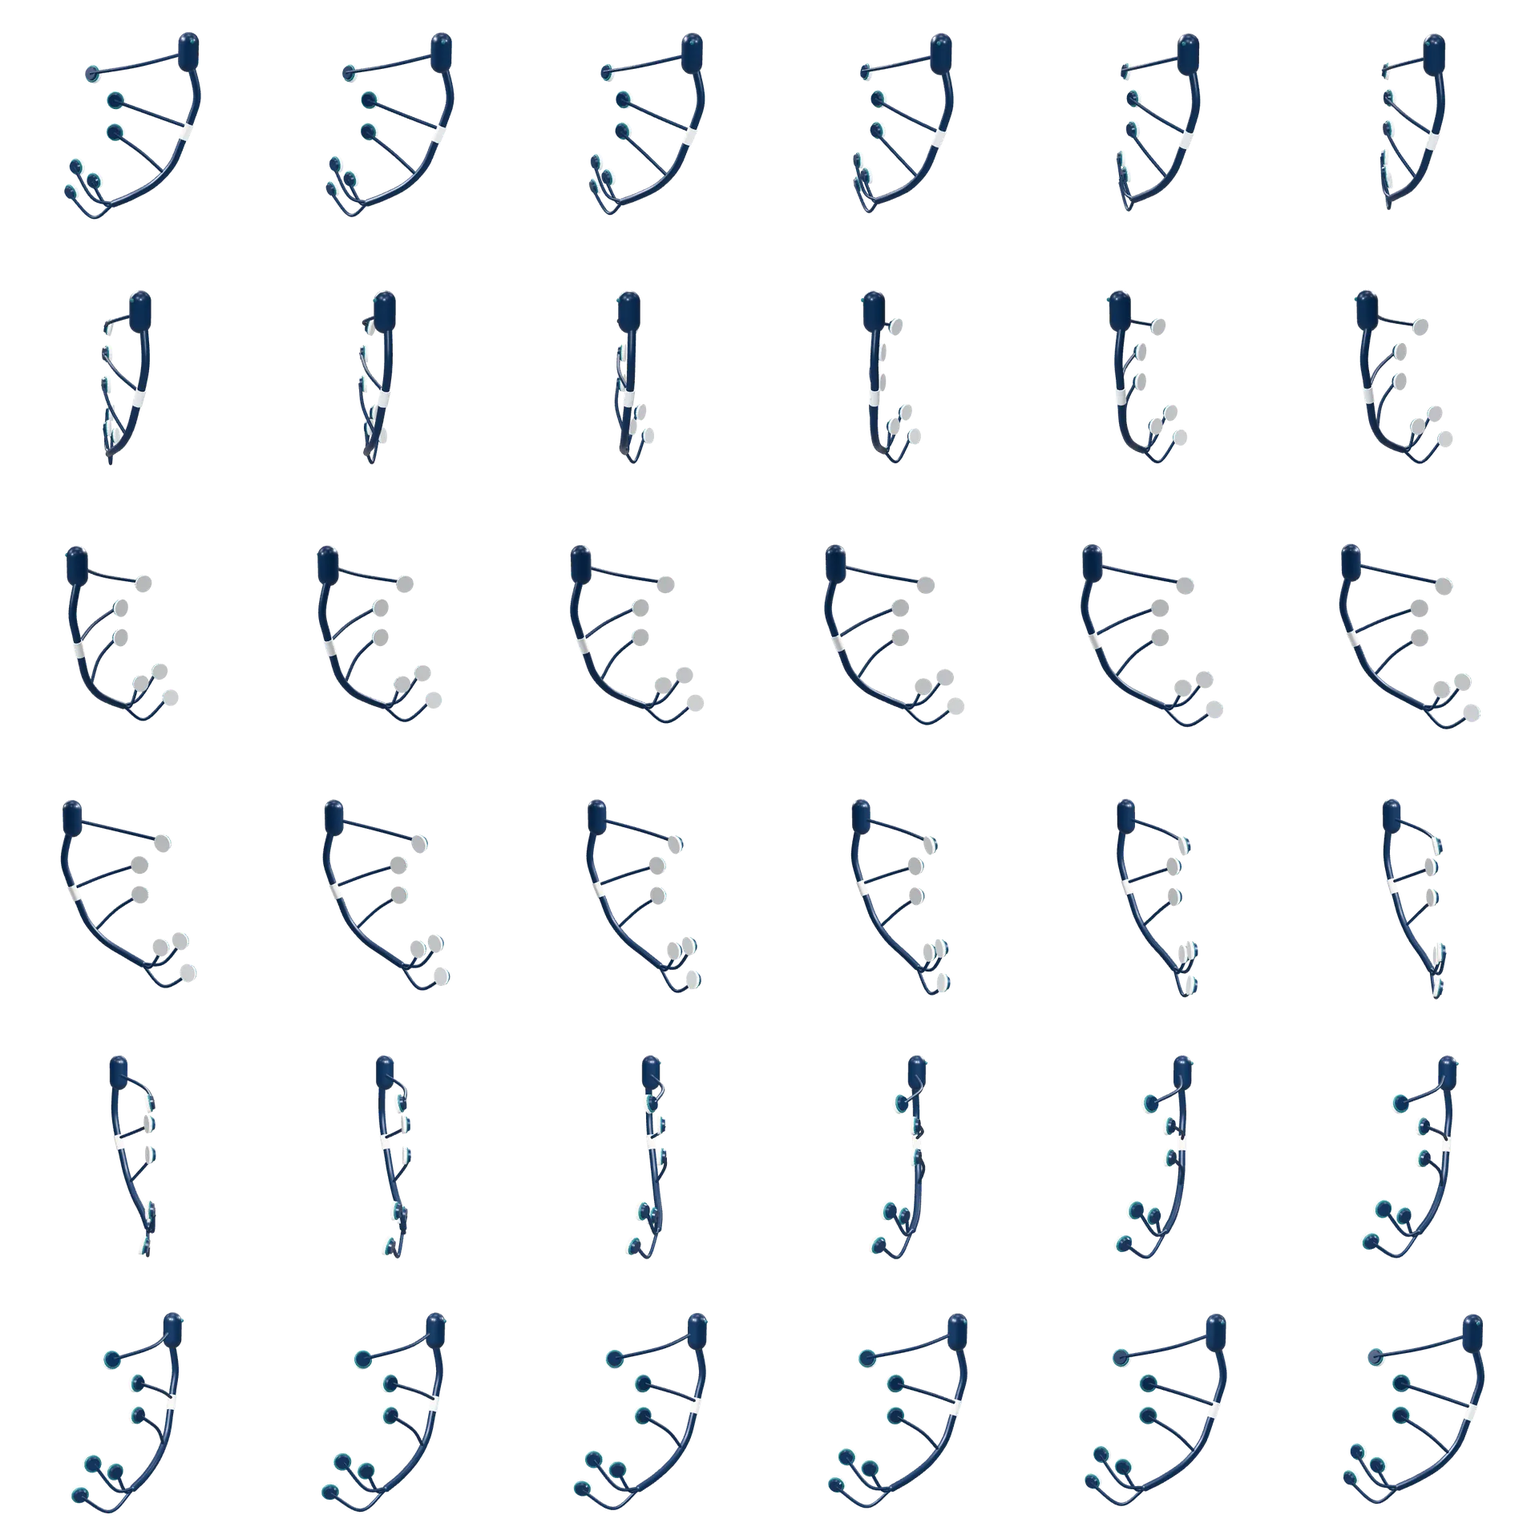
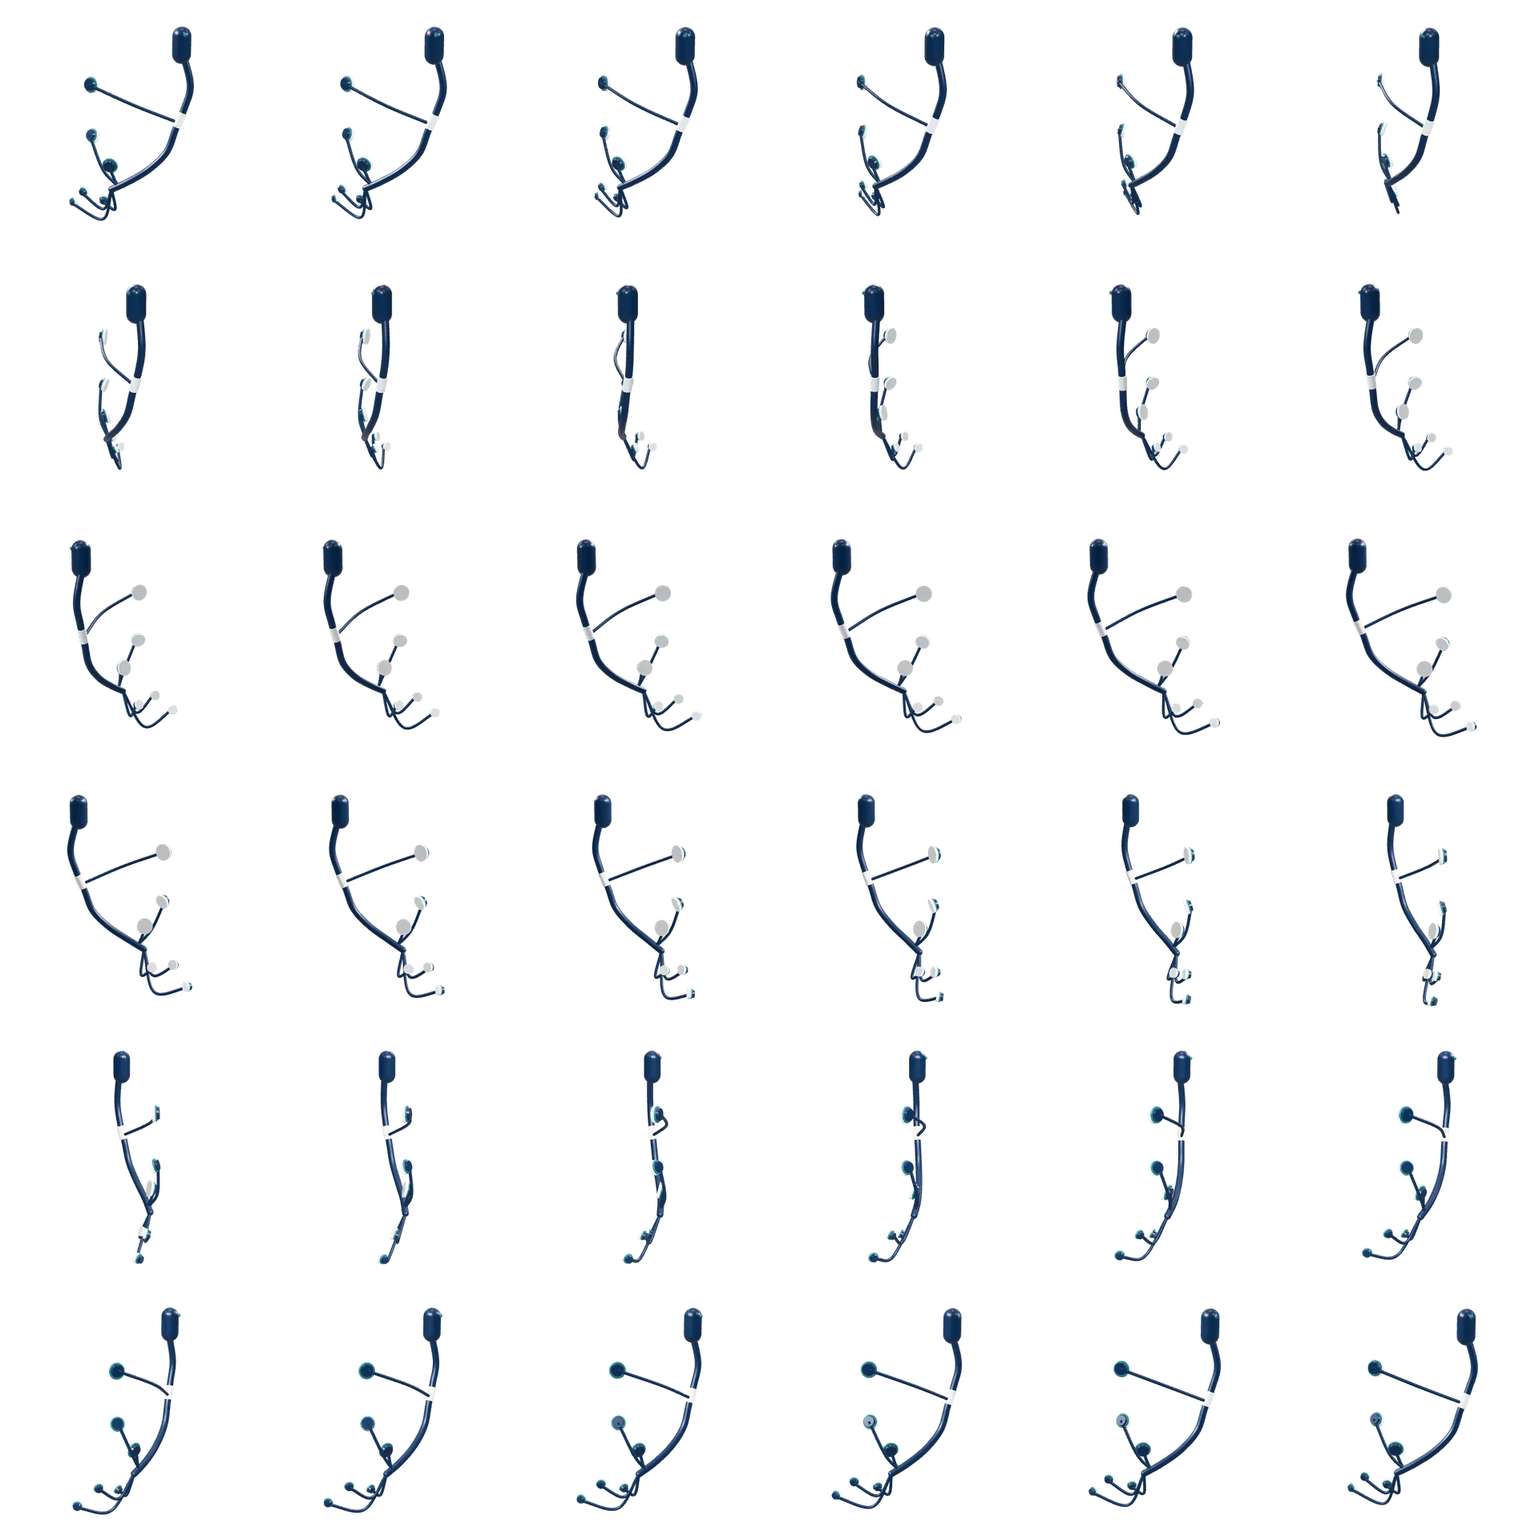
Electrodes placed from facial landmarks (motor-point rules of the original model), sized per site
Claude-Session: https://claude.ai/code/session_01AVcAcR4VspJ6PmTS8nQSgM

diff --git a/team.html b/team.html
@@ -6,10 +6,10 @@
 <meta name="viewport" content="width=device-width,initial-scale=1">
 <meta name="description" content="An open-face electrical-stimulation mask for facial palsy rehabilitation — graduation project, Faculty of Physical Therapy, Kafrelsheikh University.">
 <meta name="theme-color" content="#FFFFFF">
-<link rel="icon" type="image/png" sizes="64x64" href="assets/favicon.png?v=6af5e4dd">
-<link rel="apple-touch-icon" href="assets/apple-touch-icon.png?v=6af5e4dd">
+<link rel="icon" type="image/png" sizes="64x64" href="assets/favicon.png?v=6af5e5fa">
+<link rel="apple-touch-icon" href="assets/apple-touch-icon.png?v=6af5e5fa">
 <link rel="preload" href="assets/fonts/inter-latin-400-normal.woff2" as="font" type="font/woff2" crossorigin>
-<link rel="stylesheet" href="assets/site.css?v=6af5e4dd">
+<link rel="stylesheet" href="assets/site.css?v=6af5e5fa">
 
 </head>
 <body>
@@ -41,7 +41,7 @@
 </div></section>
 </main>
 <script type="module">
-import { initSite, $ } from './assets/site.js?v=6af5e4dd';
+import { initSite, $ } from './assets/site.js?v=6af5e5fa';
 // Team members: replace the placeholders with {en, ar, role_en, role_ar}
 const MEMBERS = [{"ar": "احمد مفيد ابراهيم احمد", "en": "Ahmed Mofid Ibrahim Ahmed", "role_en": "External benchmarking; flexible arm", "role_ar": "المقارنة بالأجهزة الموجودة؛ الذراع المرنة", "lead": false}, {"ar": "آلاء أحمد محمد أنصاري دراز", "en": "Alaa Ahmed Mohamed Ansary Darraz", "role_en": "Treatment priority & modalities", "role_ar": "أولويات العلاج والوسائل العلاجية", "lead": false}, {"ar": "آلاء عبدالعزيز إبراهيم جداده", "en": "Alaa Abdelaziz Ibrahim Gadada", "role_en": "Mask components & materials", "role_ar": "مكوّنات القناع وخاماته", "lead": false}, {"ar": "حسن محمد أحمد فؤاد", "en": "Hassan Mohamed Ahmed Fouad", "role_en": "Research paper collection", "role_ar": "جمع الأبحاث", "lead": true}, {"ar": "روان بهاء حسين صبرى ياسين عثمان", "en": "Rawan Bahaa Hussein Sabry Yassin Osman", "role_en": "Safety & precautions", "role_ar": "السلامة والاحتياطات", "lead": false}, {"ar": "زينب احمد على عبد العال محمد", "en": "Zeinab Ahmed Ali Abdelaal Mohamed", "role_en": "Indications & contraindications", "role_ar": "دواعي الاستخدام وموانعه", "lead": false}, {"ar": "ساره حسن فوقى ابوعيد", "en": "Sara Hassan Fawky Abou Eid", "role_en": "Safety & precautions", "role_ar": "السلامة والاحتياطات", "lead": false}, {"ar": "صلاح ضياء صلاح السيد", "en": "Salah Diaa Salah Elsayed", "role_en": "Complicated cases", "role_ar": "الحالات المعقّدة", "lead": false}, {"ar": "طاهر ابراهيم طاهر فهيم", "en": "Taher Ibrahim Taher Fahim", "role_en": "External benchmarking", "role_ar": "المقارنة بالأجهزة الموجودة", "lead": false}, {"ar": "عبدالرحمن محمد عبدالرحيم محمد الطوي", "en": "Abdelrahman Mohamed Abdelrahim Mohamed Eltawy", "role_en": "Parameters & current selection", "role_ar": "المعاملات واختيار التيار", "lead": false}, {"ar": "علاء الدين محمد السيد محمود السقيلي", "en": "Alaa Eldin Mohamed Elsayed Mahmoud Elsekaily", "role_en": "External benchmarking", "role_ar": "المقارنة بالأجهزة الموجودة", "lead": false}, {"ar": "محمود محمد السعيد عطاالله", "en": "Mahmoud Mohamed Elsaeed Attallah", "role_en": "Complicated cases", "role_ar": "الحالات المعقّدة", "lead": false}, {"ar": "محمود محمد محمود حمد", "en": "Mahmoud Mohamed Mahmoud Hamad", "role_en": "Stimulation & electrode selection", "role_ar": "التحفيز واختيار الأقطاب", "lead": false}, {"ar": "معاذ إبراهيم بسيوني خليفة", "en": "Moaz Ibrahim Bassiouny Khalifa", "role_en": "Flexible arm mechanism", "role_ar": "آلية الذراع المرنة", "lead": false}, {"ar": "منه عامر على الهجرسى سليم", "en": "Menna Amer Ali Elhagrasy Selim", "role_en": "Indications & contraindications", "role_ar": "دواعي الاستخدام وموانعه", "lead": false}, {"ar": "مي محمد حميده قاسم", "en": "Mai Mohamed Hemeida Kassem", "role_en": "Stimulation & electrode selection", "role_ar": "التحفيز واختيار الأقطاب", "lead": false}, {"ar": "نجلاء عبداللّه الشربينى الشربينى محمد", "en": "Naglaa Abdallah Elsherbiny Elsherbiny Mohamed", "role_en": "Treatment priority & modalities", "role_ar": "أولويات العلاج والوسائل العلاجية", "lead": false}, {"ar": "ندى نادر محمد عاشور العشري", "en": "Nada Nader Mohamed Ashour Elashry", "role_en": "Research paper collection", "role_ar": "جمع الأبحاث", "lead": false}, {"ar": "نورهان عبدالرحيم عبدالرازق", "en": "Nourhan Abdelrahim Abdelrazek", "role_en": "Parameters & current selection", "role_ar": "المعاملات واختيار التيار", "lead": false}, {"ar": "نورهان نشأت إسماعيل", "en": "Nourhan Nashaat Ismail", "role_en": "Mask components & materials", "role_ar": "مكوّنات القناع وخاماته", "lead": false}];
 const T = {

diff --git a/index.html b/index.html
@@ -6,10 +6,10 @@
 <meta name="viewport" content="width=device-width,initial-scale=1">
 <meta name="description" content="An open-face electrical-stimulation mask for facial palsy rehabilitation — graduation project, Faculty of Physical Therapy, Kafrelsheikh University.">
 <meta name="theme-color" content="#FFFFFF">
-<link rel="icon" type="image/png" sizes="64x64" href="assets/favicon.png?v=6af5e4dd">
-<link rel="apple-touch-icon" href="assets/apple-touch-icon.png?v=6af5e4dd">
+<link rel="icon" type="image/png" sizes="64x64" href="assets/favicon.png?v=6af5e5fa">
+<link rel="apple-touch-icon" href="assets/apple-touch-icon.png?v=6af5e5fa">
 <link rel="preload" href="assets/fonts/inter-latin-400-normal.woff2" as="font" type="font/woff2" crossorigin>
-<link rel="stylesheet" href="assets/site.css?v=6af5e4dd">
+<link rel="stylesheet" href="assets/site.css?v=6af5e5fa">
 
 <script type="importmap">{"imports":{"three":"https://cdn.jsdelivr.net/npm/three@0.170.0/build/three.module.js","three/addons/":"https://cdn.jsdelivr.net/npm/three@0.170.0/examples/jsm/"}}</script>
 </head>
@@ -59,9 +59,9 @@
   <h2 class="sec-h rv" data-i="ptT"></h2>
   <p class="sec-p rv" data-i="ptP"></p>
   <div class="turns">
-    <figure class="card turncard rv"><div class="turn" data-sheet="assets/turn_frame.webp?v=6af5e4dd" role="img" data-ia="aria-label:pt1"></div><figcaption><small>01</small><b data-i="pt1"></b><span data-i="pt1d"></span></figcaption></figure>
-    <figure class="card turncard rv"><div class="turn" data-sheet="assets/turn_module.webp?v=6af5e4dd" role="img" data-ia="aria-label:pt2"></div><figcaption><small>02</small><b data-i="pt2"></b><span data-i="pt2d"></span></figcaption></figure>
-    <figure class="card turncard rv"><div class="turn" data-sheet="assets/turn_electrode.webp?v=6af5e4dd" role="img" data-ia="aria-label:pt3"></div><figcaption><small>03</small><b data-i="pt3"></b><span data-i="pt3d"></span></figcaption></figure>
+    <figure class="card turncard rv"><div class="turn" data-sheet="assets/turn_frame.webp?v=6af5e5fa" role="img" data-ia="aria-label:pt1"></div><figcaption><small>01</small><b data-i="pt1"></b><span data-i="pt1d"></span></figcaption></figure>
+    <figure class="card turncard rv"><div class="turn" data-sheet="assets/turn_module.webp?v=6af5e5fa" role="img" data-ia="aria-label:pt2"></div><figcaption><small>02</small><b data-i="pt2"></b><span data-i="pt2d"></span></figcaption></figure>
+    <figure class="card turncard rv"><div class="turn" data-sheet="assets/turn_electrode.webp?v=6af5e5fa" role="img" data-ia="aria-label:pt3"></div><figcaption><small>03</small><b data-i="pt3"></b><span data-i="pt3d"></span></figcaption></figure>
   </div>
   <p class="note rv" style="margin-top:16px;text-align:center" data-i="ptN"></p>
 </div></section>
@@ -115,14 +115,14 @@
 
 <section class="sec"><div class="wrap">
   <div class="ctas">
-    <a class="cta rv" href="science.html"><span class="ph" style="background-image:url(assets/tile_science.webp?v=6af5e4dd)" aria-hidden="true"></span><div><small data-i="c0s"></small><b data-i="c0b"></b></div><span class="go"><span data-i="go"></span><i>→</i></span></a>
-    <a class="cta rv" href="evidence.html"><span class="ph" style="background-image:url(assets/tile_evidence.webp?v=6af5e4dd)" aria-hidden="true"></span><div><small data-i="c1s"></small><b data-i="c1b"></b></div><span class="go"><span data-i="go"></span><i>→</i></span></a>
-    <a class="cta rv" href="papers.html"><span class="ph" style="background-image:url(assets/tile_papers.webp?v=6af5e4dd)" aria-hidden="true"></span><div><small data-i="c2s"></small><b data-i="c2b"></b></div><span class="go"><span data-i="go"></span><i>→</i></span></a>
-    <a class="cta rv" href="team.html"><span class="ph" style="background-image:url(assets/tile_team.webp?v=6af5e4dd)" aria-hidden="true"></span><div><small data-i="c3s"></small><b data-i="c3b"></b></div><span class="go"><span data-i="go"></span><i>→</i></span></a>
+    <a class="cta rv" href="science.html"><span class="ph" style="background-image:url(assets/tile_science.webp?v=6af5e5fa)" aria-hidden="true"></span><div><small data-i="c0s"></small><b data-i="c0b"></b></div><span class="go"><span data-i="go"></span><i>→</i></span></a>
+    <a class="cta rv" href="evidence.html"><span class="ph" style="background-image:url(assets/tile_evidence.webp?v=6af5e5fa)" aria-hidden="true"></span><div><small data-i="c1s"></small><b data-i="c1b"></b></div><span class="go"><span data-i="go"></span><i>→</i></span></a>
+    <a class="cta rv" href="papers.html"><span class="ph" style="background-image:url(assets/tile_papers.webp?v=6af5e5fa)" aria-hidden="true"></span><div><small data-i="c2s"></small><b data-i="c2b"></b></div><span class="go"><span data-i="go"></span><i>→</i></span></a>
+    <a class="cta rv" href="team.html"><span class="ph" style="background-image:url(assets/tile_team.webp?v=6af5e5fa)" aria-hidden="true"></span><div><small data-i="c3s"></small><b data-i="c3b"></b></div><span class="go"><span data-i="go"></span><i>→</i></span></a>
   </div>
   <p class="strip rv" style="margin-top:28px" data-i="caveat"></p>
 </div></section>
 </main>
-<script type="module" src="assets/home.js?v=6af5e4dd"></script>
+<script type="module" src="assets/home.js?v=6af5e5fa"></script>
 </body>
 </html>

diff --git a/assets/mask3d.js b/assets/mask3d.js
@@ -176,13 +176,17 @@ export function createMaskScene(canvas, opts = {}) {
   anchor('dock', root, docks[1].p.clone().addScaledVector(docks[1].n, 0.1));
 
   // ---- detachable side module (built for +x; mirrored for -x)
+  // Electrode sites from the motor-point rules of the original 3D model (Fridlund & Cacioppo landmarks),
+  // measured on this face. 1 cm = 0.107 model units (interpupillary distance 6.3 cm = 0.672 units).
+  // Landmarks (affected side, +x): pupil (0.336,-0.18), lateral canthus (0.50,-0.19), mouth corner (0.30,-0.925),
+  // pre-auricular notch (0.82,-0.32), pogonion at y -1.22. r = electrode radius.
   const sites = [
-    { name: 'Frontalis', yaw: 26, y: 0.40 },
-    { name: 'Orbicularis oculi', yaw: 42, y: 0.15 },
-    { name: 'Zygomaticus major', yaw: 42, y: -0.19 },
-    { name: 'Orbicularis oris', yaw: 14, y: -0.60 },
-    { name: 'Depressor anguli oris', yaw: 27, y: -0.75 },
-    { name: 'Mentalis', yaw: 7, y: -0.89 },
+    { name: 'Frontalis', x: 0.44, y: 0.18, r: 0.09 },              // 1 cm lateral to pupil line, 1.5 cm above mid-brow
+    { name: 'Orbicularis oculi', x: 0.45, y: -0.37, r: 0.08 },     // ~1 cm below lateral canthus, 0.5 cm medial; kept clear of the lower lid
+    { name: 'Zygomaticus major', x: 0.58, y: -0.66, r: 0.09 },     // 0.5 cm mouthward of the midpoint, mouth corner → pre-auricular notch
+    { name: 'Orbicularis oris', x: 0.25, y: -1.03, r: 0.055 },     // 1 cm below and 0.5 cm medial to the mouth corner
+    { name: 'Depressor anguli oris', x: 0.41, y: -1.09, r: 0.055 },// 1 cm lateral and 1.5 cm below the mouth corner
+    { name: 'Mentalis', x: 0.055, y: -1.22, r: 0.055 },            // 0.5 cm off the midline at the chin point
   ];
   function makeModule(sx) {
     const M = new THREE.Group(); root.add(M);
@@ -203,7 +207,7 @@ export function createMaskScene(canvas, opts = {}) {
     const samples = sideCurve.getSpacedPoints(200);
     const els = [];
     sites.forEach((s, i) => {
-      const hit = onDir(dirYaw(s.yaw, s.y), 0.0);
+      const hit = hitFrom(new THREE.Vector3(s.x, s.y, 6), new THREE.Vector3(0, 0, -1), 0.0), k = s.r / 0.09;
       const g = new THREE.Group();
       const puck = new THREE.Group();
       const body = new THREE.Mesh(new THREE.CylinderGeometry(0.085, 0.09, 0.032, Q(48)), siliconeMat); body.castShadow = true;
@@ -211,7 +215,7 @@ export function createMaskScene(canvas, opts = {}) {
       const dot = new THREE.Mesh(new THREE.CylinderGeometry(0.03, 0.03, 0.01, Q(32)), tealMat); dot.position.y = 0.019;
       const back = new THREE.Mesh(new THREE.CylinderGeometry(0.06, 0.07, 0.03, Q(32)), frameMat); back.position.y = 0.04;
       puck.add(body, ring, dot, back);
-      puck.position.copy(hit.p).addScaledVector(hit.n, 0.018); puck.quaternion.setFromUnitVectors(new THREE.Vector3(0, 1, 0), hit.n);
+      puck.scale.set(k, 1, k); puck.position.copy(hit.p).addScaledVector(hit.n, 0.018); puck.quaternion.setFromUnitVectors(new THREE.Vector3(0, 1, 0), hit.n);
       g.add(puck);
       let best = samples[0], bd = 1e9; samples.forEach(q => { const d = q.distanceTo(hit.p); if (d < bd) { bd = d; best = q; } });
       const mid = best.clone().lerp(hit.p, 0.5); const md = mid.clone().normalize();

diff --git a/evidence.html b/evidence.html
@@ -6,10 +6,10 @@
 <meta name="viewport" content="width=device-width,initial-scale=1">
 <meta name="description" content="An open-face electrical-stimulation mask for facial palsy rehabilitation — graduation project, Faculty of Physical Therapy, Kafrelsheikh University.">
 <meta name="theme-color" content="#FFFFFF">
-<link rel="icon" type="image/png" sizes="64x64" href="assets/favicon.png?v=6af5e4dd">
-<link rel="apple-touch-icon" href="assets/apple-touch-icon.png?v=6af5e4dd">
+<link rel="icon" type="image/png" sizes="64x64" href="assets/favicon.png?v=6af5e5fa">
+<link rel="apple-touch-icon" href="assets/apple-touch-icon.png?v=6af5e5fa">
 <link rel="preload" href="assets/fonts/inter-latin-400-normal.woff2" as="font" type="font/woff2" crossorigin>
-<link rel="stylesheet" href="assets/site.css?v=6af5e4dd">
+<link rel="stylesheet" href="assets/site.css?v=6af5e5fa">
 
 </head>
 <body>
@@ -52,8 +52,8 @@
 </div></section>
 </main>
 <script type="module">
-import { initSite, $ } from './assets/site.js?v=6af5e4dd';
-import { REFS, STD } from './assets/refs.js?v=6af5e4dd';
+import { initSite, $ } from './assets/site.js?v=6af5e5fa';
+import { REFS, STD } from './assets/refs.js?v=6af5e5fa';
 const esc = s => s.replace(/&/g, '&amp;').replace(/</g, '&lt;');
 const fmtRef = (r, i) => {
   const urlM = r.match(/https?:\/\/[^\s]+[^\s.,;)]/); const url = urlM ? urlM[0] : '';

diff --git a/assets/home.js b/assets/home.js
@@ -1,5 +1,5 @@
-import { initSite, $, $$, LANG } from './site.js?v=6af5e4dd';
-import { createMaskScene, loadBust } from './mask3d.js?v=6af5e4dd';
+import { initSite, $, $$, LANG } from './site.js?v=6af5e5fa';
+import { createMaskScene, loadBust } from './mask3d.js?v=6af5e5fa';
 
 const SITES = ['Frontalis', 'Orbicularis oculi', 'Zygomaticus major', 'Orbicularis oris', 'Depressor anguli oris', 'Mentalis'];
 const T = {
@@ -125,7 +125,7 @@ const THREE_DEG = Math.PI / 180;
 
 const frameOpts = () => ({ fit: mobile ? 1.0 : 0.8, wfit: mobile ? 0.6 : 0.9, lookY: mobile ? 0.25 : -0.05 });
 const sOpts = { lite, maxDpr: lite ? 1.25 : 2, cheapMat: mobile, noShadow: mobile, shadowSize: 2048, fit: mobile ? 1.0 : 0.8, wfit: mobile ? 0.6 : 0.9, lookY: mobile ? 0.25 : -0.05 };
-loadBust(lite ? 'assets/bust_lite.js?v=6af5e4dd' : 'assets/bust_full.js?v=6af5e4dd').then(b => createMaskScene(canvas, { ...sOpts, bust: b }))
+loadBust(lite ? 'assets/bust_lite.js?v=6af5e5fa' : 'assets/bust_full.js?v=6af5e5fa').then(b => createMaskScene(canvas, { ...sOpts, bust: b }))
   .then(s => { S = s; frameCam(); dirty = true; stage.classList.add('ready'); if (reduce) frame(0); })
   .catch(e => { console.warn(e); stage.classList.add('nogl'); });
 

diff --git a/science.html b/science.html
@@ -6,10 +6,10 @@
 <meta name="viewport" content="width=device-width,initial-scale=1">
 <meta name="description" content="An open-face electrical-stimulation mask for facial palsy rehabilitation — graduation project, Faculty of Physical Therapy, Kafrelsheikh University.">
 <meta name="theme-color" content="#FFFFFF">
-<link rel="icon" type="image/png" sizes="64x64" href="assets/favicon.png?v=6af5e4dd">
-<link rel="apple-touch-icon" href="assets/apple-touch-icon.png?v=6af5e4dd">
+<link rel="icon" type="image/png" sizes="64x64" href="assets/favicon.png?v=6af5e5fa">
+<link rel="apple-touch-icon" href="assets/apple-touch-icon.png?v=6af5e5fa">
 <link rel="preload" href="assets/fonts/inter-latin-400-normal.woff2" as="font" type="font/woff2" crossorigin>
-<link rel="stylesheet" href="assets/site.css?v=6af5e4dd">
+<link rel="stylesheet" href="assets/site.css?v=6af5e5fa">
 
 </head>
 <body>
@@ -132,6 +132,6 @@
   <p class="strip rv" style="margin-top:20px" data-i="safeN"></p>
 </div></section>
 </main>
-<script type="module" src="assets/science.js?v=6af5e4dd"></script>
+<script type="module" src="assets/science.js?v=6af5e5fa"></script>
 </body>
 </html>

diff --git a/assets/science.js b/assets/science.js
@@ -1,5 +1,5 @@
-import { initSite, cite, $, $$ } from './site.js?v=6af5e4dd';
-import { hbar, donut, ranges, forest, gantt, vbars, svg, logx } from './charts.js?v=6af5e4dd';
+import { initSite, cite, $, $$ } from './site.js?v=6af5e5fa';
+import { hbar, donut, ranges, forest, gantt, vbars, svg, logx } from './charts.js?v=6af5e5fa';
 
 const T = {
  en: {

diff --git a/assets/site.js b/assets/site.js
@@ -1,5 +1,5 @@
 // Shared shell: nav, footer, language, citations, reveal, count-up, smooth scroll.
-import { KEYS } from './refs.js?v=6af5e4dd';
+import { KEYS } from './refs.js?v=6af5e5fa';
 
 const COMMON = {
   en: {
